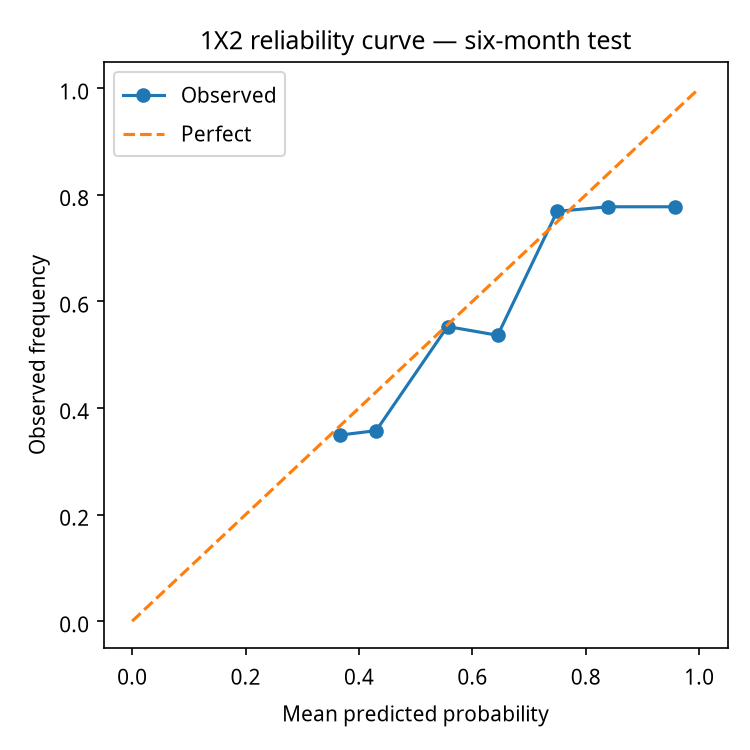
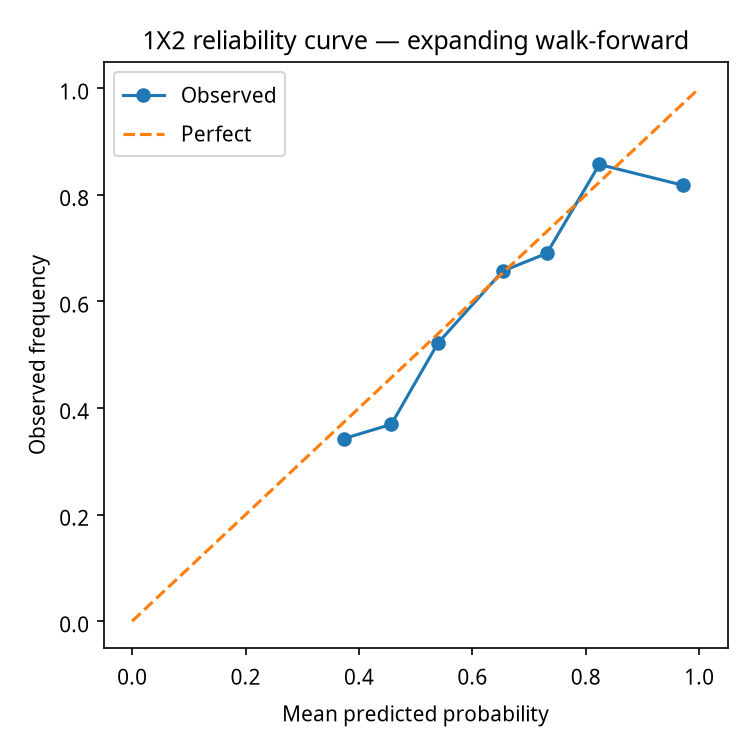
Use expanding walk-forward backtest and paper settlement

diff --git a/scripts/backtest.py b/scripts/backtest.py
@@ -8,36 +8,40 @@ import pandas as pd
 from sklearn.metrics import log_loss
 from lexbet.data import connect, build_features
 from lexbet.model import remove_margin
-from train import calibrated
+from train import fit_classifier, calibrate, calibrated
 
 ROOT=Path(__file__).resolve().parents[1]; DB=ROOT/'data/lexbet.sqlite'; ART=ROOT/'artifacts'; REPORT=ROOT/'reports'; REPORT.mkdir(exist_ok=True)
 
 def main():
-    with open(ART/'models.pkl','rb') as f: b=pickle.load(f)
-    conn=connect(DB); raw=pd.read_sql_query("select * from matches where home_goals is not null and away_goals is not null order by kickoff",conn); frame=build_features(raw)
-    cutoff=pd.to_datetime(frame.kickoff,utc=True).max()-pd.Timedelta(days=183); test=frame[pd.to_datetime(frame.kickoff,utc=True)>=cutoff].copy()
-    p1=calibrated(b['model_1x2'],b['cal_1x2'],test); p2=calibrated(b['model_ou25'],b['cal_ou25'],test)
-    labels1=test.result.map({'H':0,'D':1,'A':2}).to_numpy(); labels2=(test.home_goals+test.away_goals>2.5).astype(int).to_numpy()
-    bets=[]; returns=[]
-    for i,(_,r) in enumerate(test.iterrows()):
-        if pd.notna(r.odds_home) and pd.notna(r.odds_draw) and pd.notna(r.odds_away):
-            mp=remove_margin([r.odds_home,r.odds_draw,r.odds_away]); bp=.5*p1[i]+.5*mp; bp=bp/bp.sum()
-            for j,sel in enumerate(['H','D','A']):
-                edge=float(bp[j]-mp[j]); odds=float([r.odds_home,r.odds_draw,r.odds_away][j])
-                if .02<=edge<=.08:
-                    won=int(labels1[i]==j); ret=(odds-1) if won else -1; close=float([r.closing_home,r.closing_draw,r.closing_away][j]) if pd.notna([r.closing_home,r.closing_draw,r.closing_away][j]) else odds
-                    bets.append({'market':'1X2','selection':sel,'prob':float(bp[j]),'market_prob':float(mp[j]),'odds':odds,'won':won,'clv':float((1/odds)-(1/close))}); returns.append(ret)
-        if pd.notna(r.over25_odds) and pd.notna(r.under25_odds):
-            mp=remove_margin([r.over25_odds,r.under25_odds]); bp=.5*p2[i]+.5*mp; bp=bp/bp.sum()
-            for j,sel in enumerate(['O','U']):
-                edge=float(bp[j]-mp[j]); odds=float([r.over25_odds,r.under25_odds][j])
-                if .02<=edge<=.08:
-                    won=int(labels2[i]==(0 if sel=='U' else 1)); bets.append({'market':'OU25','selection':sel,'prob':float(bp[j]),'market_prob':float(mp[j]),'odds':odds,'won':won,'clv':0.0}); returns.append((odds-1) if won else -1)
-    yprob=np.concatenate([p1[:,0],p1[:,1],p1[:,2]]) if False else p1
-    rel=pd.DataFrame({'prob':p1.max(axis=1),'outcome':(p1.argmax(axis=1)==labels1).astype(int)}); rel['bin']=pd.cut(rel.prob,np.linspace(0,1,11),include_lowest=True); curve=rel.groupby('bin',observed=True).agg(mean_pred=('prob','mean'),fraction_positive=('outcome','mean'),count=('outcome','size')).reset_index(); curve.to_csv(REPORT/'reliability_curve.csv',index=False)
+    conn=connect(DB); raw=pd.read_sql_query("select * from matches where home_goals is not null and away_goals is not null order by kickoff",conn); frame=build_features(raw); frame.kickoff=pd.to_datetime(frame.kickoff,utc=True)
+    cutoff=frame.kickoff.max()-pd.Timedelta('183D'); test=frame[frame.kickoff>=cutoff].copy(); folds=pd.date_range(cutoff.normalize(),frame.kickoff.max().normalize(),freq='MS',tz='UTC').tolist(); folds=[cutoff]+[x for x in folds if x>cutoff]
+    all_p1=[]; all_y1=[]; bets=[]; returns=[]
+    for i,start in enumerate(folds):
+        end=folds[i+1] if i+1<len(folds) else frame.kickoff.max()+pd.Timedelta('1s'); fold=test[(test.kickoff>=start)&(test.kickoff<end)]
+        prior=frame[frame.kickoff<start]
+        if len(prior)<300 or fold.empty: continue
+        val_n=max(100,int(len(prior)*.2)); train, val=prior.iloc[:-val_n], prior.iloc[-val_n:]
+        ytr=train.result.map({'H':0,'D':1,'A':2}); yv=val.result.map({'H':0,'D':1,'A':2})
+        m1=fit_classifier(train,ytr,'multi',[0,1,2]); c1=calibrate(m1,val,yv,[0,1,2])
+        y2tr=(train.home_goals+train.away_goals>2.5).astype(int); y2v=(val.home_goals+val.away_goals>2.5).astype(int)
+        m2=fit_classifier(train,y2tr,'binary',[0,1]); c2=calibrate(m2,val,y2v,[0,1])
+        p1=calibrated(m1,c1,fold); p2=calibrated(m2,c2,fold); labels1=fold.result.map({'H':0,'D':1,'A':2}).to_numpy(); labels2=(fold.home_goals+fold.away_goals>2.5).astype(int).to_numpy()
+        all_p1.append(p1); all_y1.append(labels1)
+        for j,(_,r) in enumerate(fold.iterrows()):
+            if pd.notna(r.odds_home) and pd.notna(r.odds_draw) and pd.notna(r.odds_away):
+                prices=[float(r.odds_home),float(r.odds_draw),float(r.odds_away)]; mp=remove_margin(prices); bp=(p1[j]+mp)/2; bp=bp/bp.sum()
+                for k,sel in enumerate(['H','D','A']):
+                    edge=float(bp[k]-mp[k]); close=[r.closing_home,r.closing_draw,r.closing_away][k]; close=float(close) if pd.notna(close) else prices[k]
+                    if .02<=edge<=.08: bets.append({'market':'1X2','selection':sel,'prob':float(bp[k]),'odds':prices[k],'won':int(labels1[j]==k),'clv':(1/prices[k])-(1/close)}); returns.append((prices[k]-1) if labels1[j]==k else -1)
+            if pd.notna(r.over25_odds) and pd.notna(r.under25_odds):
+                prices=[float(r.over25_odds),float(r.under25_odds)]; mp=remove_margin(prices); bp=(p2[j]+mp)/2; bp=bp/bp.sum()
+                for k,sel in enumerate(['O','U']):
+                    edge=float(bp[k]-mp[k]);
+                    if .02<=edge<=.08: bets.append({'market':'OU25','selection':sel,'prob':float(bp[k]),'odds':prices[k],'won':int(labels2[j]==(1 if k==0 else 0)),'clv':0.0}); returns.append((prices[k]-1) if labels2[j]==(1 if k==0 else 0) else -1)
+    p1=np.vstack(all_p1); y1=np.concatenate(all_y1); rel=pd.DataFrame({'prob':p1.max(axis=1),'outcome':(p1.argmax(axis=1)==y1).astype(int)}); rel['bin']=pd.cut(rel.prob,np.linspace(0,1,11),include_lowest=True); curve=rel.groupby('bin',observed=True).agg(mean_pred=('prob','mean'),fraction_positive=('outcome','mean'),count=('outcome','size')).reset_index(); curve.to_csv(REPORT/'reliability_curve.csv',index=False)
     import matplotlib.pyplot as plt
-    plt.figure(figsize=(5,5)); plt.plot(curve.mean_pred,curve.fraction_positive,'o-',label='Observed'); plt.plot([0,1],[0,1],'--',label='Perfect'); plt.xlabel('Mean predicted probability'); plt.ylabel('Observed frequency'); plt.title('1X2 reliability curve — six-month test'); plt.legend(); plt.tight_layout(); plt.savefig(REPORT/'reliability_curve.png',dpi=150); plt.close()
-    metrics={'window_start':str(cutoff),'window_end':str(frame.kickoff.max()),'n_matches':len(test),'n_bets':len(bets),'roi':float(np.sum(returns)/len(returns)) if returns else 0.0,'hit_rate':float(np.mean([x['won'] for x in bets])) if bets else 0.0,'brier_score_1x2':float(np.mean(np.sum((p1-np.eye(3)[labels1])**2,axis=1))),'log_loss_1x2':float(log_loss(labels1,p1)),'closing_line_value':float(np.mean([x['clv'] for x in bets])) if bets else 0.0,'note':'ROI is a realized historical result, not a guarantee. No tuning was performed to force profit.'}
-    (REPORT/'backtest.json').write_text(json.dumps(metrics,indent=2)); conn.execute("insert or replace into backtest_runs (id,market,train_end,validation_end,test_start,test_end,metrics_json,report_path) values (?,?,?,?,?,?,?,?)",('latest','1X2+OU25',b['train_end'],b['validation_end'],str(cutoff),str(frame.kickoff.max()),json.dumps(metrics),str(REPORT/'backtest.json'))); conn.commit(); print(json.dumps(metrics,indent=2))
+    plt.figure(figsize=(5,5)); plt.plot(curve.mean_pred,curve.fraction_positive,'o-',label='Observed'); plt.plot([0,1],[0,1],'--',label='Perfect'); plt.xlabel('Mean predicted probability'); plt.ylabel('Observed frequency'); plt.title('1X2 reliability curve — expanding walk-forward'); plt.legend(); plt.tight_layout(); plt.savefig(REPORT/'reliability_curve.png',dpi=150); plt.close()
+    metrics={'window_start':str(cutoff),'window_end':str(frame.kickoff.max()),'n_matches':len(test),'n_folds':len(all_p1),'n_bets':len(bets),'roi':float(np.sum(returns)/len(returns)) if returns else 0.0,'hit_rate':float(np.mean([x['won'] for x in bets])) if bets else 0.0,'brier_score_1x2':float(np.mean(np.sum((p1-np.eye(3)[y1])**2,axis=1))),'log_loss_1x2':float(log_loss(y1,p1)),'closing_line_value':float(np.mean([x['clv'] for x in bets])) if bets else 0.0,'note':'ROI is a realized historical result, not a guarantee. No tuning was performed to force profit.'}
+    (REPORT/'backtest.json').write_text(json.dumps(metrics,indent=2)); conn.execute("insert or replace into backtest_runs (id,market,train_end,validation_end,test_start,test_end,metrics_json,report_path) values (?,?,?,?,?,?,?,?)",('latest','1X2+OU25','expanding','validation-only',str(cutoff),str(frame.kickoff.max()),json.dumps(metrics),str(REPORT/'backtest.json'))); conn.commit(); print(json.dumps(metrics,indent=2))
 
 if __name__=='__main__': main()

diff --git a/README.md b/README.md
@@ -24,14 +24,14 @@ The live refresh completed on 2026-10-19 with these match counts:
 - Matches with Understat xG: 3,153
 - Matches with historical closing 1X2 odds: 7,328
 
-The six-month report covers April 14 to October 14, 2026 and was not tuned to force a positive result:
+The six-month report covers April 14 to October 14, 2026 using five expanding-window monthly folds. Each fold fits on earlier matches and calibrates only on the immediately preceding validation slice. It was not tuned to force a positive result:
 
-- ROI: **−12.01%**
-- Hit rate: **32.39%**
-- Bets passing the filter: **917**
-- 1X2 Brier score: **0.6162**
-- 1X2 log loss: **1.1105**
-- Mean closing-line value: **+0.026 percentage points**
+- ROI: **−8.77%**
+- Hit rate: **34.40%**
+- Bets passing the filter: **936**
+- 1X2 Brier score: **0.6120**
+- 1X2 log loss: **1.0531**
+- Mean closing-line value: **+0.072 percentage points**
 
 This ROI is negative. It should be treated as evidence that this configuration did not produce a profitable backtest, not as a reason to increase stakes or chase losses. The report files are `reports/backtest.json`, `reports/reliability_curve.csv`, and `reports/reliability_curve.png`.
 
